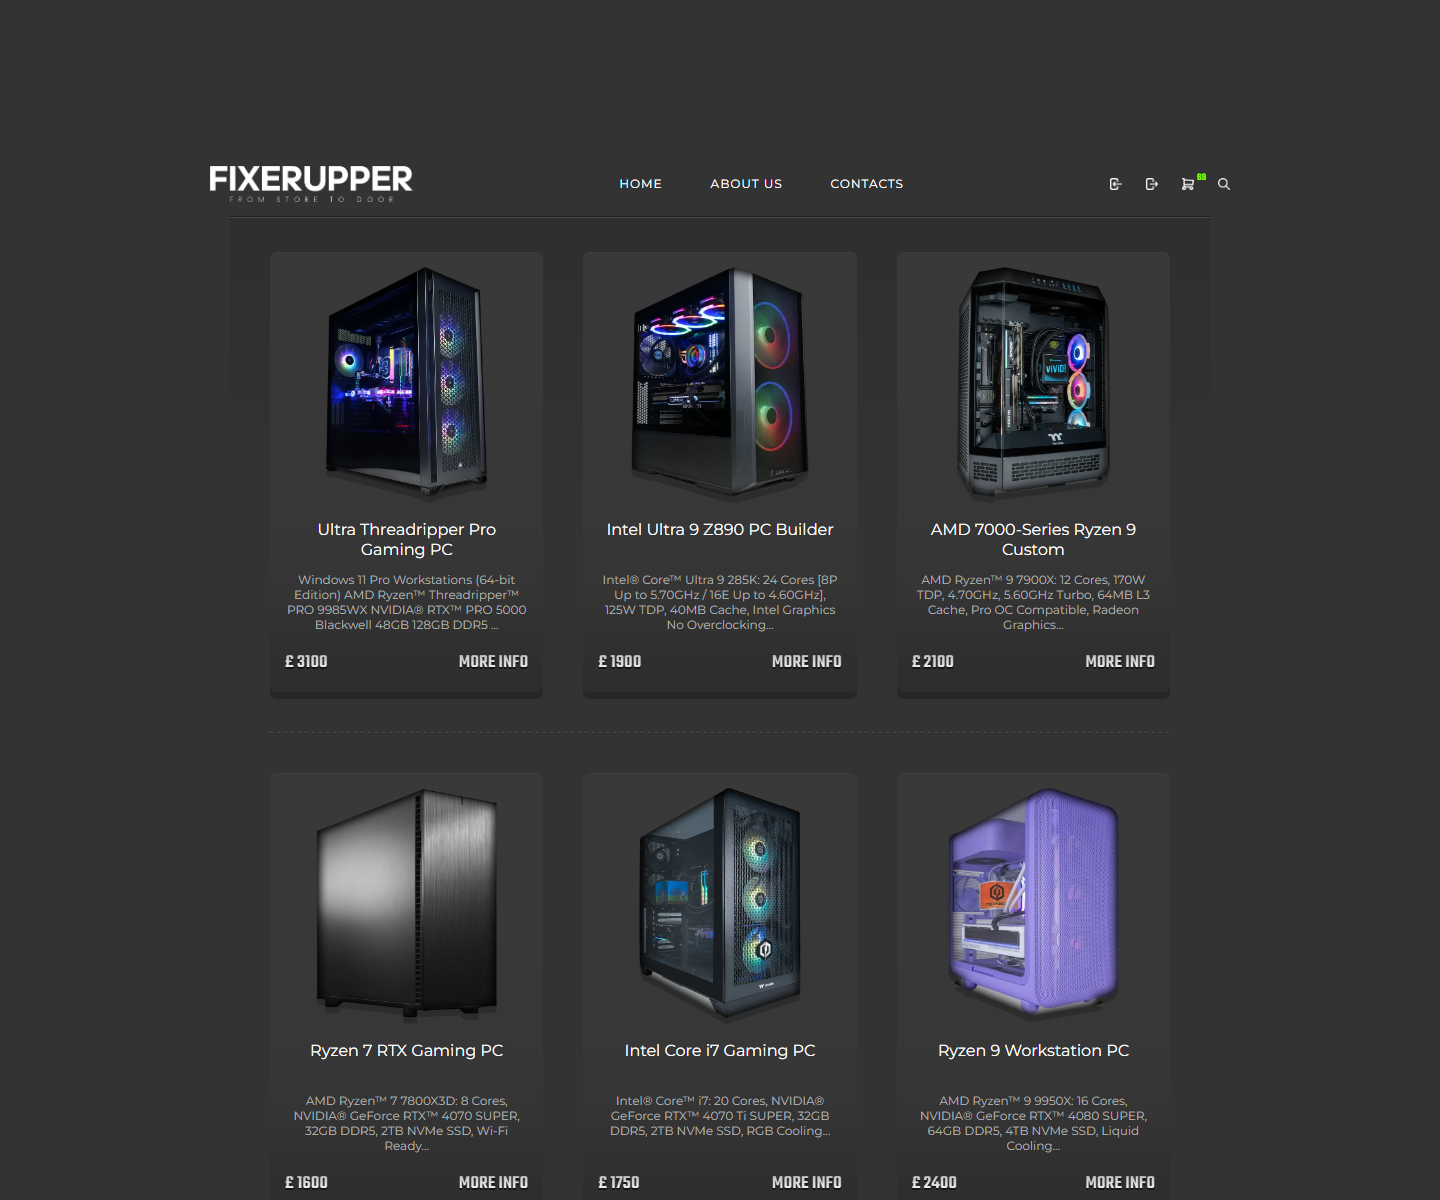
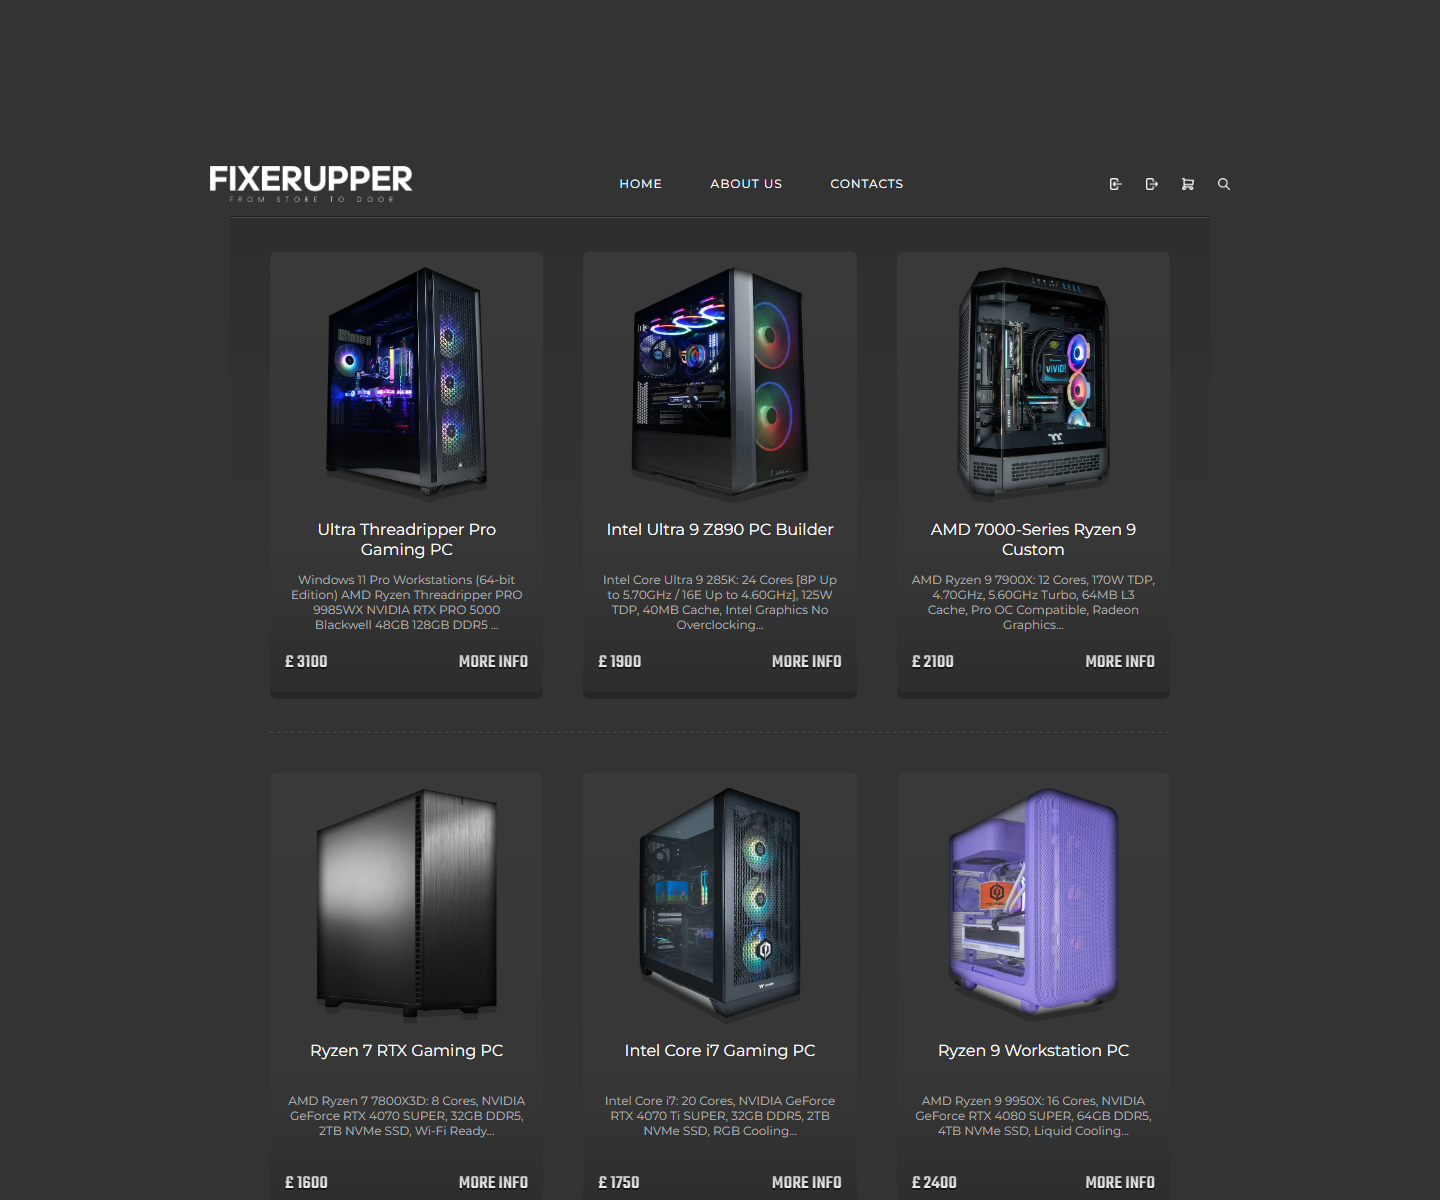
Update cart styling and screenshots

diff --git a/assets/css/style.css b/assets/css/style.css
@@ -757,13 +757,18 @@ nav::after {
     right: var(--cart-edge-gap);
     bottom: 0;
     left: var(--cart-edge-gap);
-    height: 1px;
-    background: repeating-linear-gradient(
-        90deg,
-        #505050 0 var(--dots-width),
-        transparent var(--dots-width) var(--dots-step)
-    );
-    box-shadow: 0 1px 0 #292929;
+    height: 2px;
+    background:
+        repeating-linear-gradient(
+            90deg,
+            #505050 0 var(--dots-width),
+            transparent var(--dots-width) var(--dots-step)
+        ) 0 0 / 100% 1px no-repeat,
+        repeating-linear-gradient(
+            90deg,
+            #292929 0 var(--dots-width),
+            transparent var(--dots-width) var(--dots-step)
+        ) 0 1px / 100% 1px no-repeat;
 }
 
 .cart-item-media {
@@ -820,23 +825,39 @@ nav::after {
 }
 
 .cart-quantity-control {
+    position: relative;
+    isolation: isolate;
     height: 33px;
-    border: 3px solid #626262;
+    border: 2px solid #626262;
     border-radius: 12px;
-    background:
-        linear-gradient(180deg, rgba(255, 255, 255, 0.08), rgba(255, 255, 255, 0) 52%),
-        linear-gradient(180deg, #4b4b4b 0%, #383838 100%);
-    box-shadow:
-        inset 0 0 0 1px #242424,
-        inset 0 -1px 0 rgba(255, 255, 255, 0.18),
-        0 1px 0 #222222;
+    background: linear-gradient(180deg, #3a3a3a 0%, #484848 100%);
+    box-shadow: inset 0 -1px 0 rgba(255, 255, 255, 0.18);
+}
+
+.cart-quantity-control::before {
+    content: "";
+    position: absolute;
+    inset: 0;
+    z-index: 0;
+    padding: 1px;
+    border-radius: 10px;
+    background: linear-gradient(180deg, #212121 0%, #868686 100%);
+    -webkit-mask:
+        linear-gradient(#000 0 0) content-box,
+        linear-gradient(#000 0 0);
+    -webkit-mask-composite: xor;
+    mask:
+        linear-gradient(#000 0 0) content-box,
+        linear-gradient(#000 0 0);
+    mask-composite: exclude;
+    pointer-events: none;
 }
 
 .cart-quantity-control {
     display: grid;
     grid-template-columns: 20px minmax(22px, 1fr) 20px;
     align-items: center;
-    width: 88px;
+    width: 92px;
     padding: 4px 5px;
 }
 
@@ -903,6 +924,7 @@ nav::after {
     --quantity-icon-stroke: 2px;
     --quantity-icon-shadow-offset: 1px;
     position: relative;
+    z-index: 1;
     isolation: isolate;
     display: flex;
     align-items: center;
@@ -972,6 +994,8 @@ nav::after {
 }
 
 .cart-quantity-value {
+    position: relative;
+    z-index: 1;
     color: #ffffff;
     font-size: 14px;
     font-weight: 400;
@@ -1504,7 +1528,7 @@ nav::after {
     }
 
     .cart-quantity-control {
-        width: 111px;
+        width: 116px;
         height: 41px;
     }
 
@@ -1611,7 +1635,7 @@ nav::after {
 
     .cart-quantity-control {
         grid-template-columns: 26px minmax(28px, 1fr) 26px;
-        width: 128px;
+        width: 134px;
         height: 41px;
         padding: 5px 6px;
     }

diff --git a/README.md b/README.md
@@ -4,8 +4,14 @@ Responsive gaming PC storefront page built with PHP, CSS and JavaScript.
 
 ![FixerUpper homepage](assets/images/homepage-screenshot.png)
 
+![FixerUpper product details modal](assets/images/more-info-screenshot.png)
+
+![FixerUpper shopping cart](assets/images/shopping-cart-screenshot.png)
+
 ## Features
 
 - Responsive product grid for desktop, tablet and mobile layouts.
 - Product details modal with image dots and scroll locking.
+- Session-backed shopping cart with live item counts.
+- Styled quantity controls with remove confirmation for zero quantity.
 - Animated advertising logo strip.
